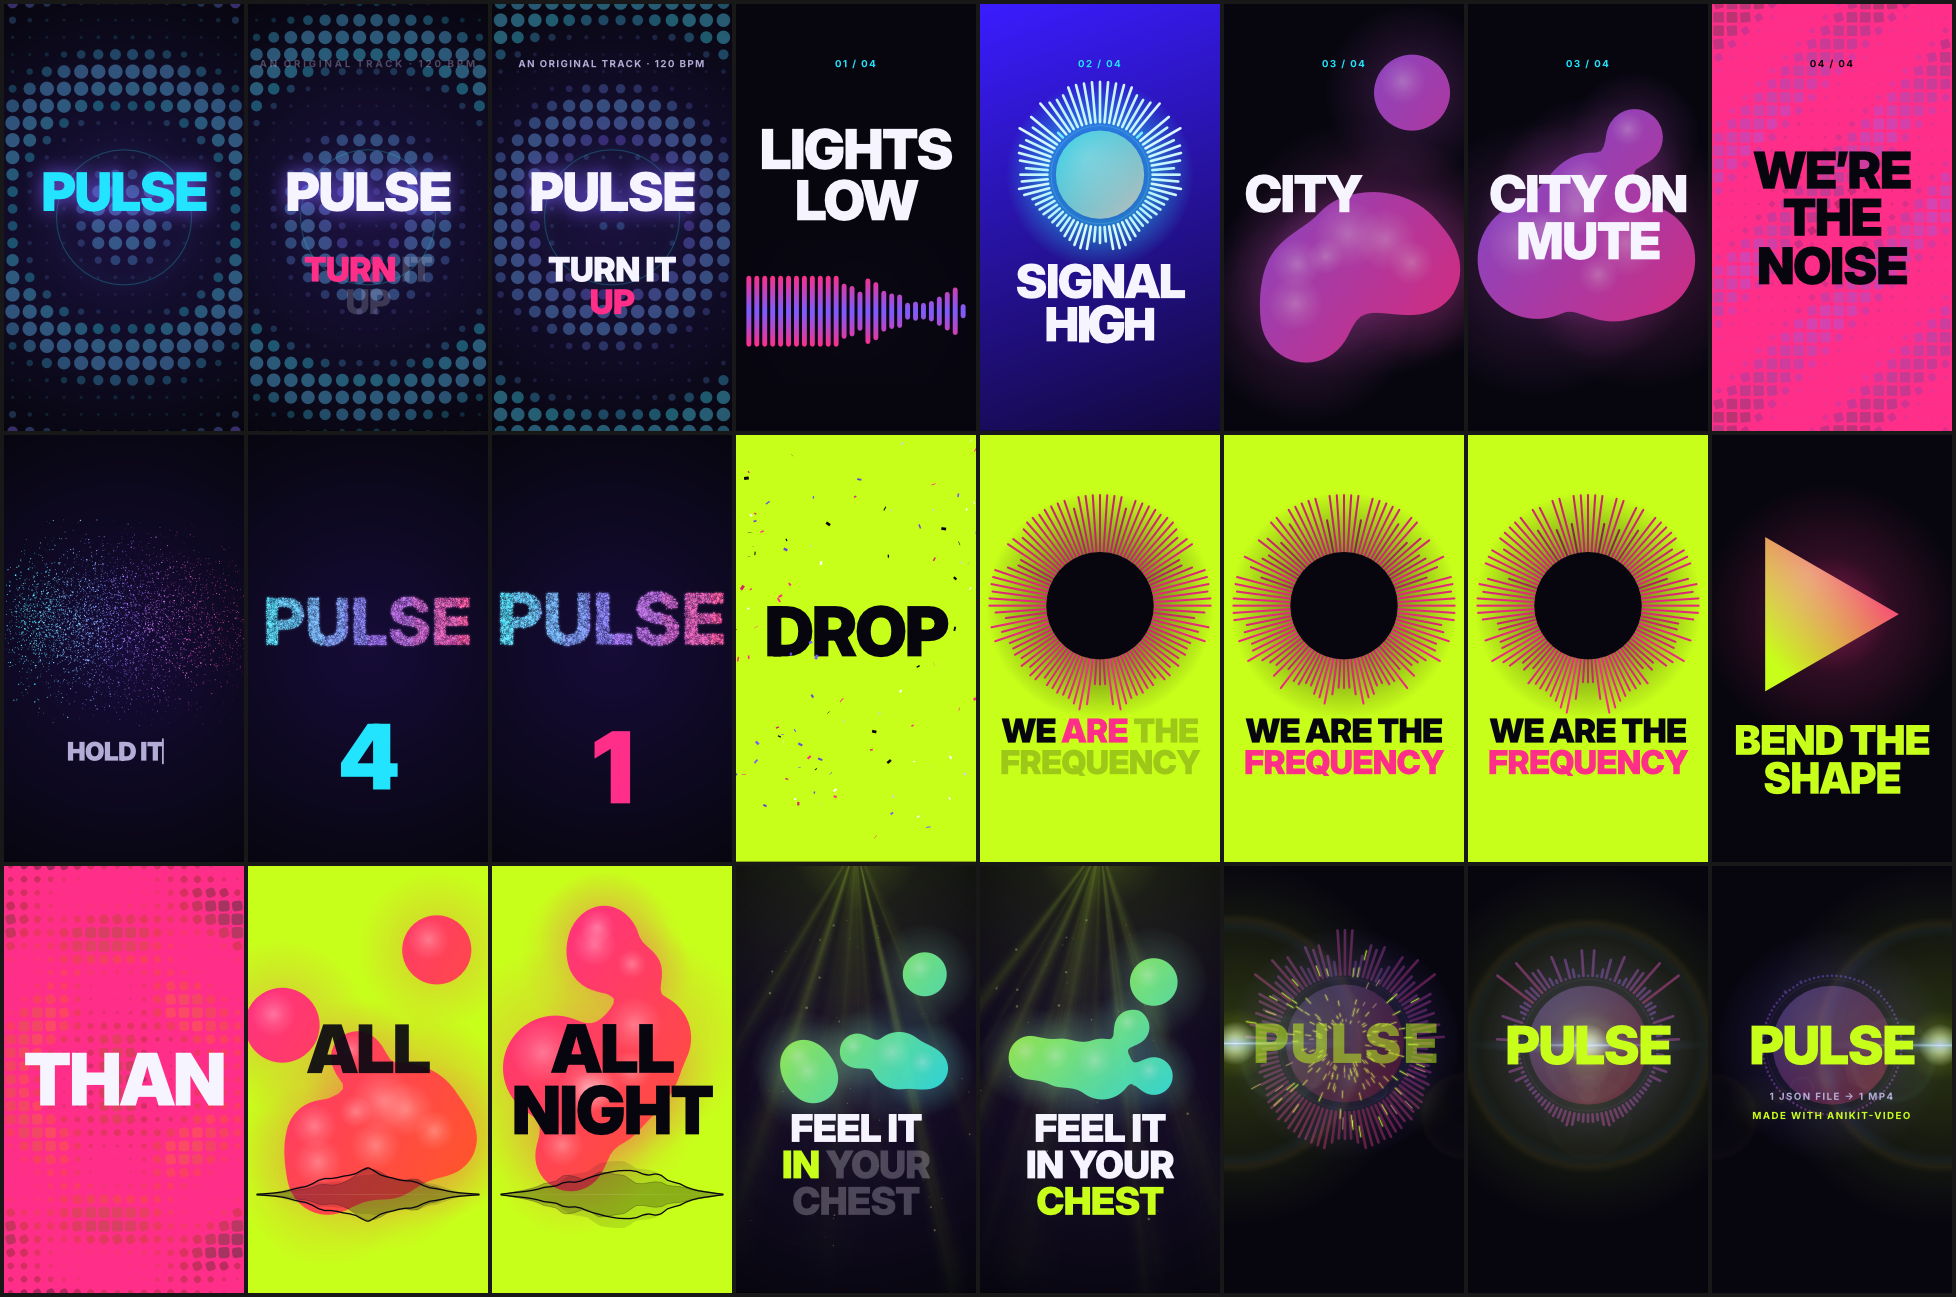
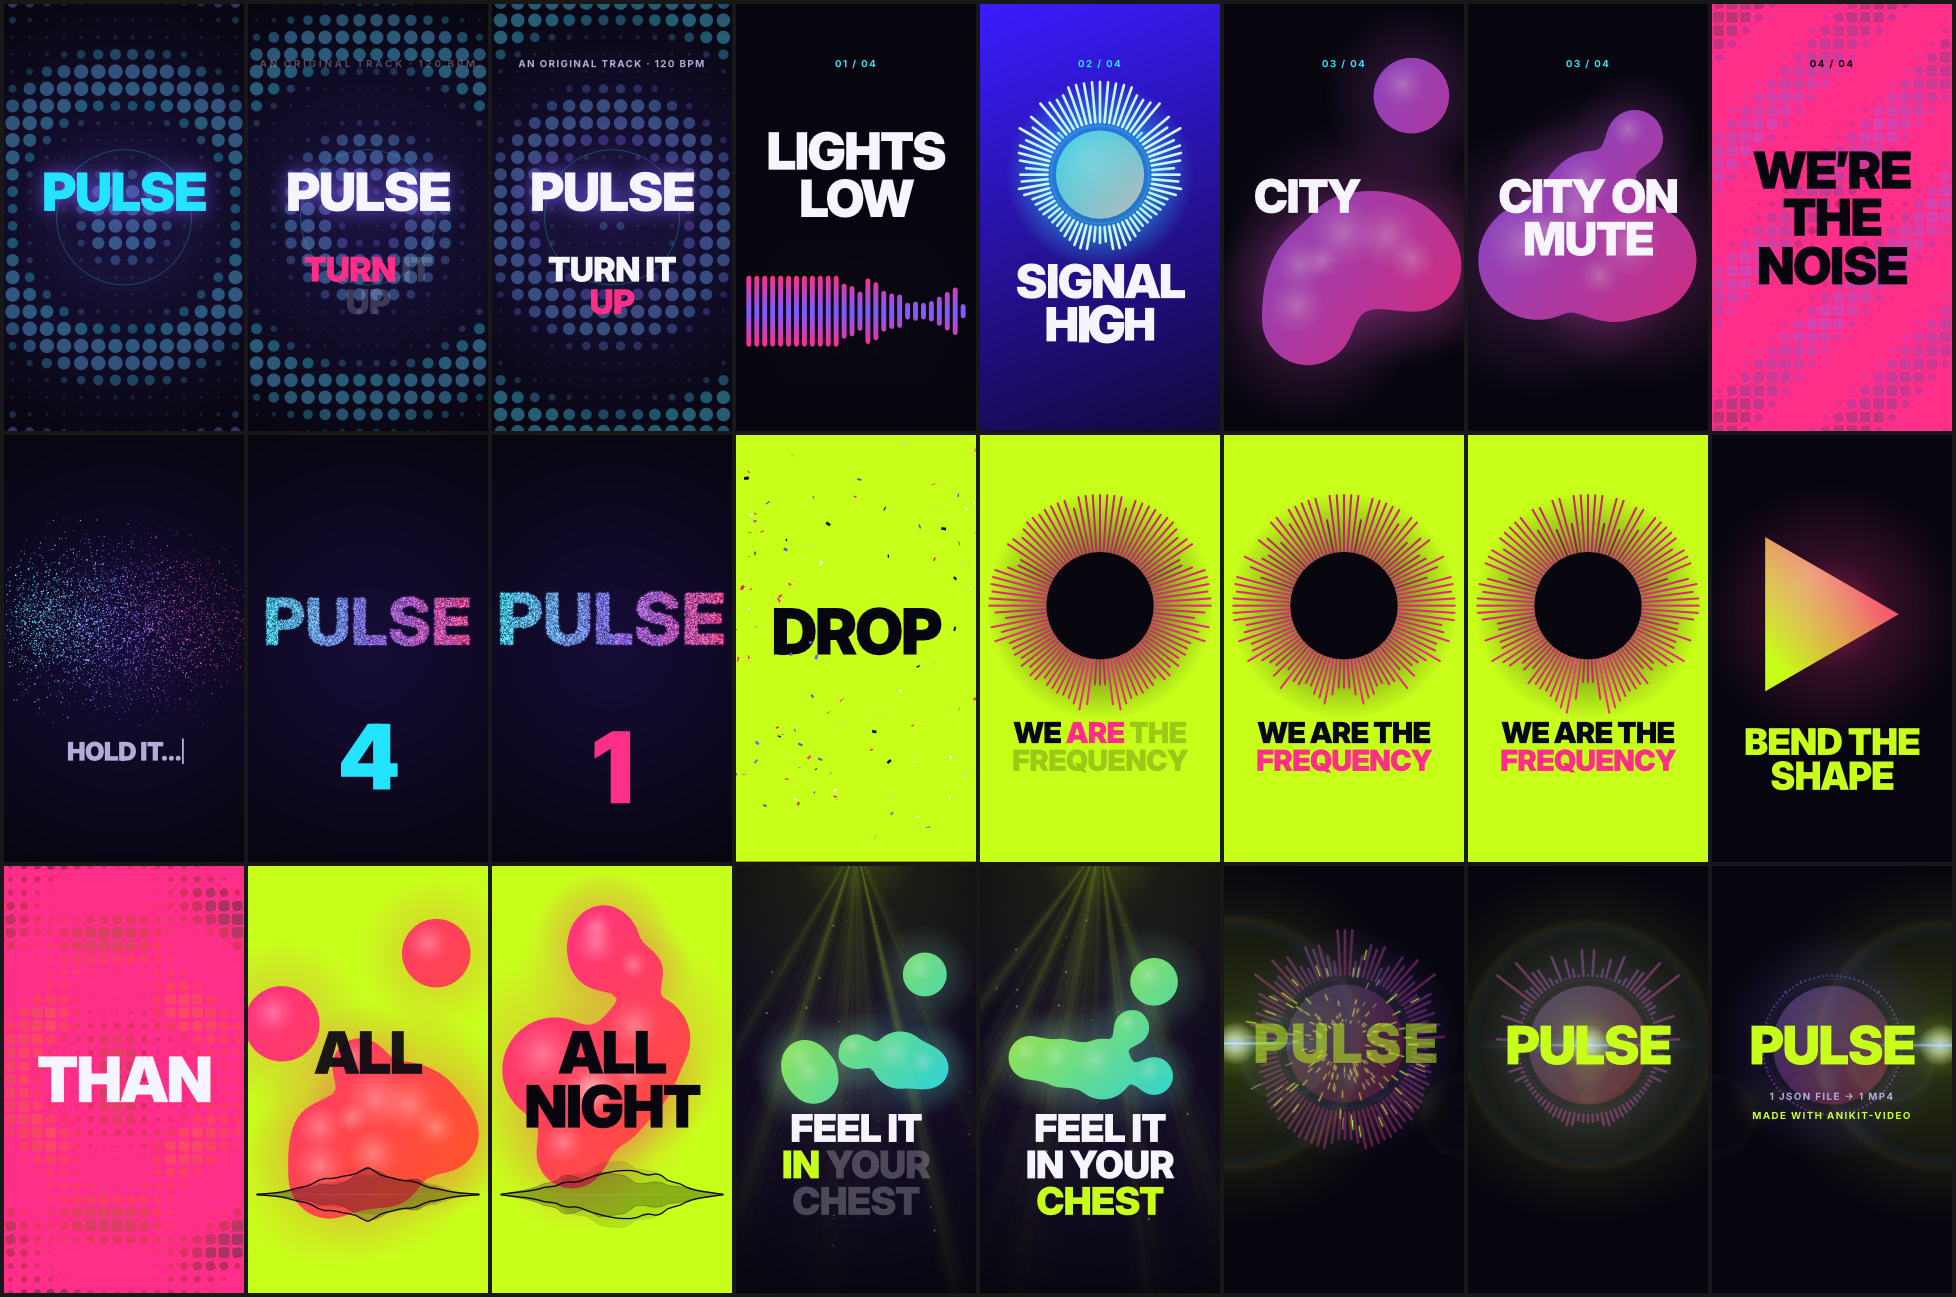
Pulse: fit every lyric to 830 px at punch peak; checkpoint 5 merged; final numbers

diff --git a/examples/video/pulse/README.md b/examples/video/pulse/README.md
@@ -32,9 +32,9 @@ These numbers come from a 4-core cloud VM (Intel Xeon @ 2.10 GHz) using the defa
 
 | | |
 |---|---|
-| Render wall time | **8.3 s** for 36 s of video |
-| Render speed | **130 fps** (1080 frames, 4.3× real time) |
-| Output | 28.6 MB MP4 (H.264 1080×1920 + AAC), mastered to −11.8 LUFS |
+| Render wall time | **7.6 s** for 36 s of video |
+| Render speed | **142 fps** (1080 frames, 4.7× real time) |
+| Output | 26.2 MB MP4 (H.264 1080×1920 + AAC), mastered to −11.8 LUFS |
 | Beat detection | 120.0 BPM; the grid is within 4 ms of the true beat |
 | Sync | All 53 cuts and word reveals are within **3.4 ms** of a detected beat (one frame is 33 ms) |
 
@@ -58,6 +58,7 @@ These are small and additive, with tests and doc lines:
 
 - **Beat markers.** `"@beat17"` and `"@bar9+0.5"` resolve to the beat grid detected in the spec's music track (`src/eval/beat_markers.rs`). The detector's grid is refitted to the onsets, which removed about 60 ms of drift over 36 s.
 - **`kinetic-grid` `step`:** the wave snaps forward once per beat and then holds, so frames between kicks are identical. It reads as more rhythmic, and the file is 16% smaller.
+- **Text `fit: true`:** shrinks a line (never grows it) to fit its `width`, keeping line breaks. Every lyric here is fitted to 830 px at the peak of its beat punch, which leaves at least 120 px of margin on each side.
 - **`anikit-video beats music.wav [--json]`** prints the tempo, beats and bars.
 - **`particle-text`** has two new props:
   - `blend: "normal"` gives dark particles on a light background;
